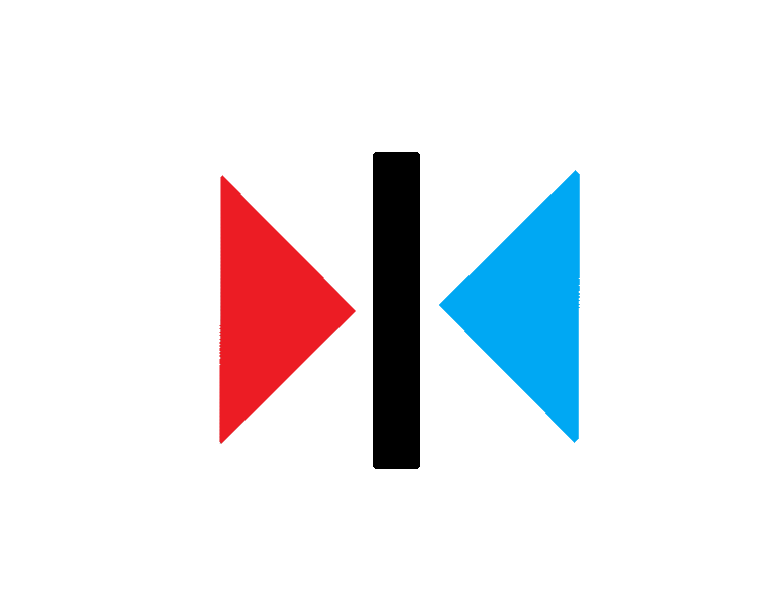
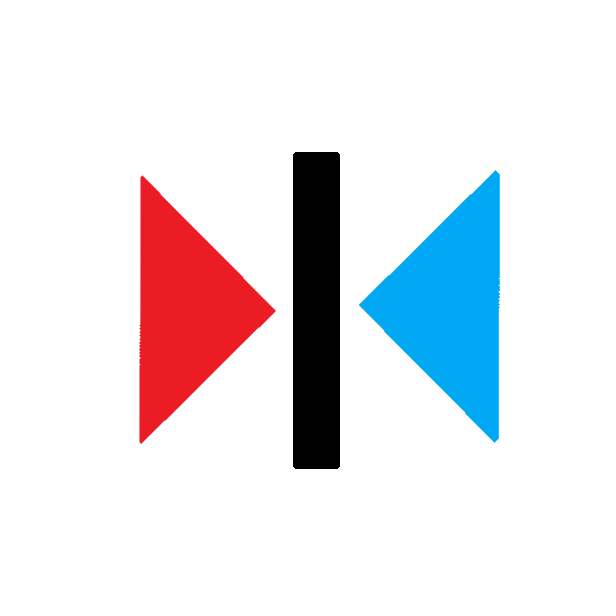
mirrorの微調整

Changed region(s): [[0.5244, 0.2468, 0.8328, 0.7711], [0.2159, 0.2468, 0.4935, 0.7711]]

diff --git a/寿司チョコレート-流れ魚/寿司チョコレート-流れ魚/Objmirror.cpp b/寿司チョコレート-流れ魚/寿司チョコレート-流れ魚/Objmirror.cpp
@@ -63,8 +63,8 @@ void CObjmirror::Draw()
 
 	src.m_top = 0.0f;
 	src.m_left = 0.0f;
-	src.m_right = 768.0f;
-	src.m_bottom = 768.0f;
+	src.m_right = 616.0f;
+	src.m_bottom = 616.0f;
 
 	dst.m_top = 0.0f + m_y;
 	dst.m_left = 0.0f + m_x;
